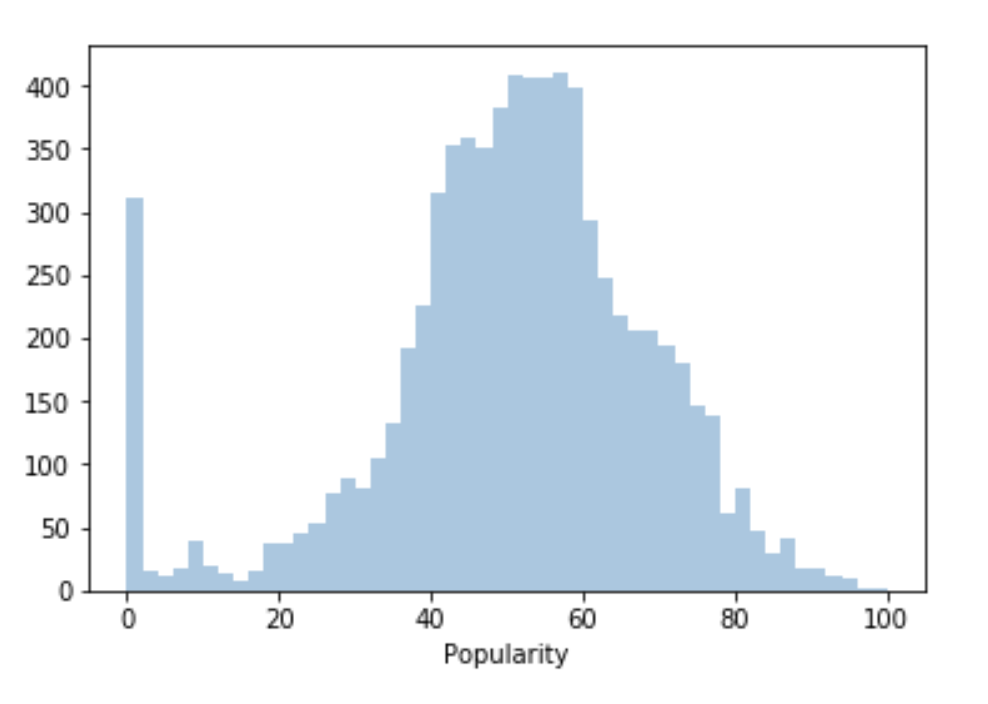
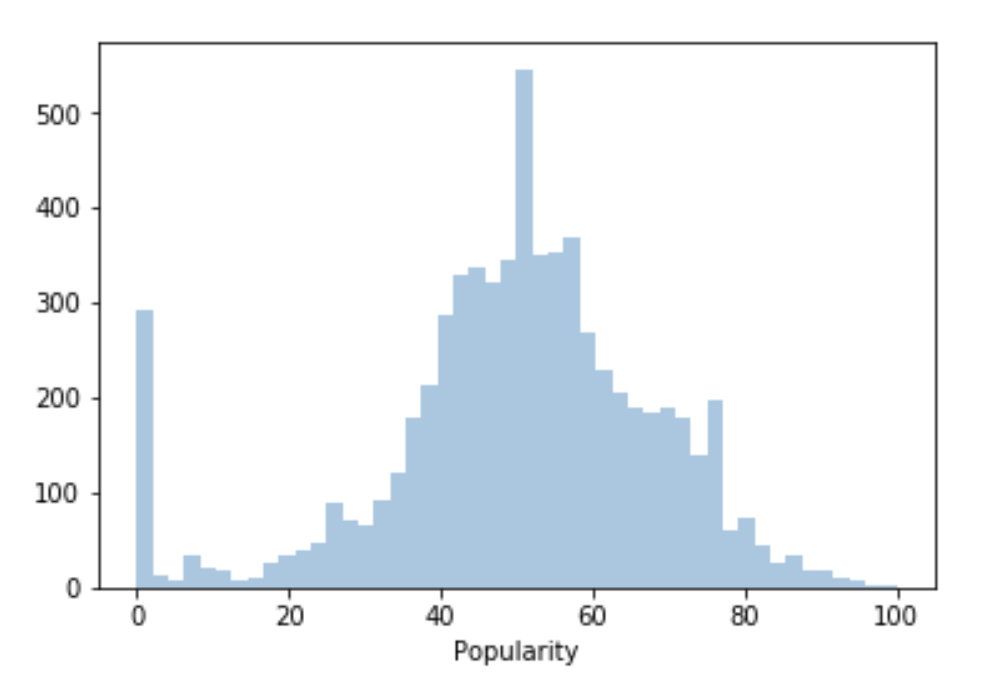
Updated image, dataset section for removed duplicates

Changed region(s): [[0.0304, 0.061, 0.9413, 0.9767]]

diff --git a/milestone.tex b/milestone.tex
@@ -373,6 +373,8 @@ Our dataset comprises 7,473 songs extracted from the Spotify API, which provides
 
 We pulled these songs from Spotify's 1,000 top albums released in 2018, which gives us a range of songs across popularity, genre and acoustic features. In addition, limiting our analysis to songs released in 2018 partially controls for the effect of age on popularity.
 
+We further made sure to eliminate all duplicate songs from our dataset, as some songs are cross-listed on multiple albums. This should prevent our score from being artificially inflated, as it would be if some songs appeared on both our training and test set.
+
 \textbf{Note to the reader}: Our original sampling of songs, described in the project proposal, turned out to be highly imbalanced, skewing heavily towards popular songs over unpopular songs. To remedy this, we changed our data sample from the top 10,000 songs to all songs from the top 1,000 albums. This results in a much more balanced dataset. We've re-run our original baseline tests on our new dataset, and we report these figures throughout the paper.
 
 \subsection{Data Exploration}
@@ -382,6 +384,17 @@ Below, we plot the distribution of song popularity in our dataset.
 \includegraphics[width=8cm]{popularity_distribution}
 
 Our dataset appears approximately normally distributed around mean 50. Also of note, there is a significant spike of highly unpopular songs with score 0. These unpopular songs likely comprise a "long tail" of music on Spotify which users rarely listen to.
+
+As a gut check that Spotify's popularity rating is sensible, we also printed out the most popular songs in our dataset. The five most popular songs in our dataset are:
+\begin{itemize}
+  \item 'Promises (with Sam Smith)', 95
+  \item 'SICKO MODE', 96
+  \item 'Without Me', 96
+  \item 'Happier', 98
+  \item 'Taki Taki (with Selena Gomez, Ozuna & Cardi B)', 100
+\end{itemize}
+
+These popularity scores make sense to us. All the kids listen to Cardi B. Hopefully they make sense to you.
 
 \subsection{Feature Selection}
 \subsubsection{Baseline Features}
